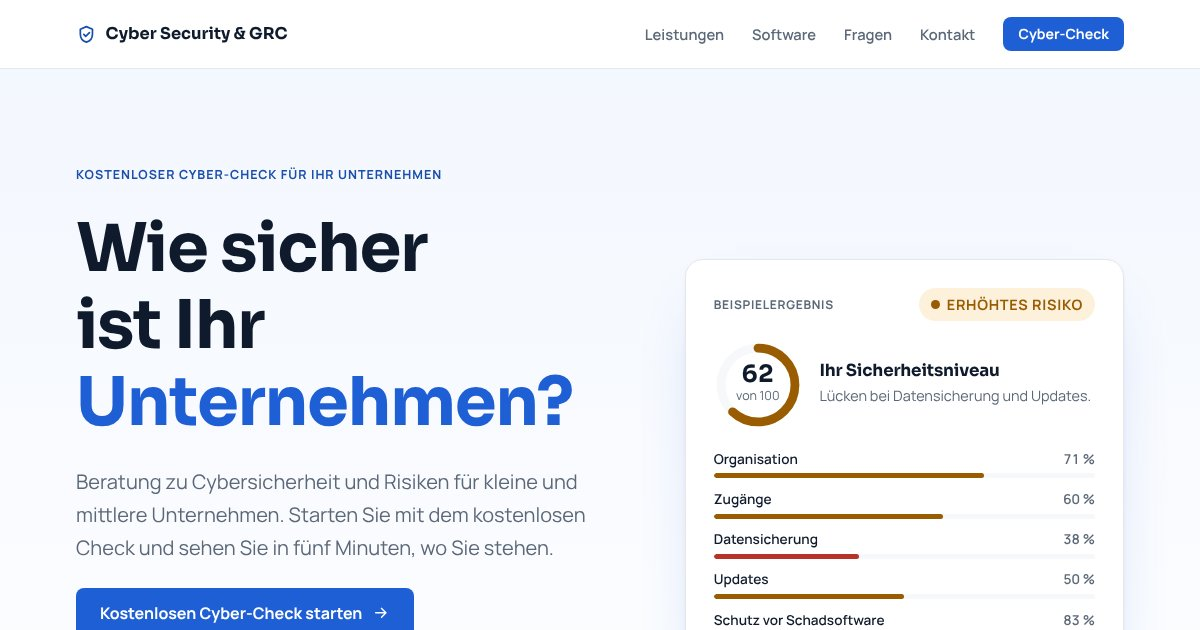
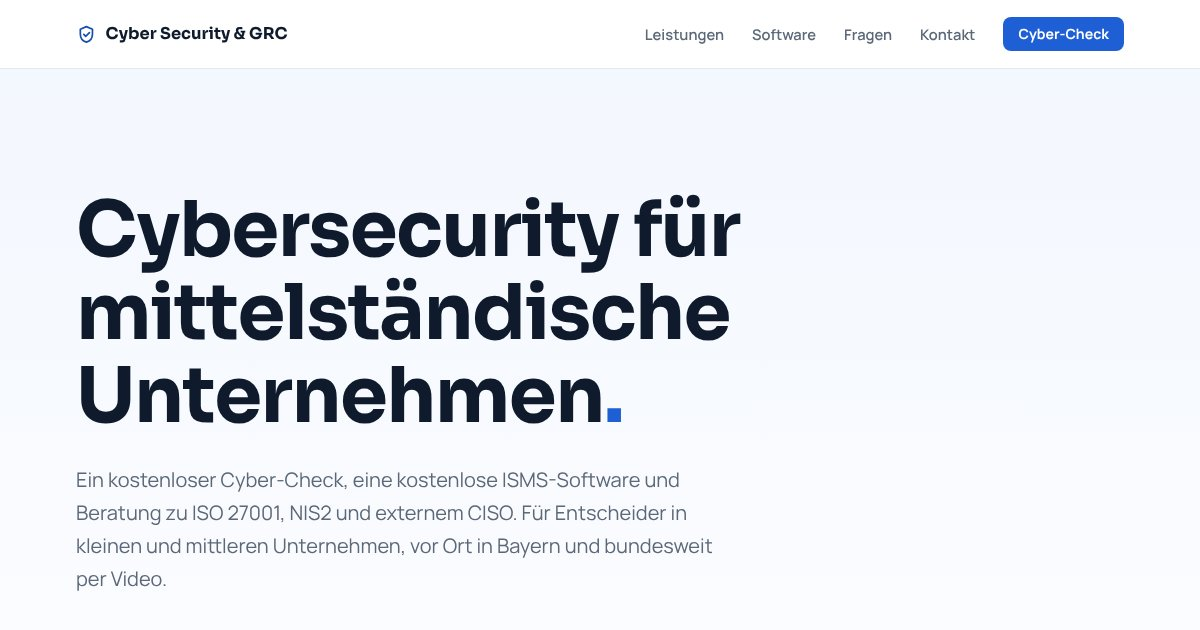
Lead website with slogan and route the question into the check
Statement headline for the value proposition, the question as an entry
card that jumps to the check, no sample result, no DIN SPEC note under
the check, and a note in the result that it stays in the browser.

Claude-Session: https://claude.ai/code/session_01H7iuLRaVLhSwwYKUt7K3jU

diff --git a/index.html b/index.html
@@ -3,8 +3,8 @@
 <head>
   <meta charset="utf-8">
   <meta name="viewport" content="width=device-width, initial-scale=1, viewport-fit=cover">
-  <title>Kostenloser Cyber-Check für Ihr Unternehmen | Cybersicherheit und Risikoberatung</title>
-  <meta name="description" content="Wie sicher ist Ihr Unternehmen? Kostenloser Cyber-Check in 5 Minuten. Sicherheitsanalysen, ISO 27001, Awareness-Schulungen und externer CISO für KMU in Bayern und bundesweit, dazu eine kostenlose ISMS-Software.">
+  <title>Cybersecurity für mittelständische Unternehmen | Kostenloser Cyber-Check</title>
+  <meta name="description" content="Cybersecurity für mittelständische Unternehmen: kostenloser Cyber-Check in 5 Minuten, kostenlose ISMS-Software und Beratung zu ISO 27001, NIS2 und externem CISO. Vor Ort in Bayern, bundesweit per Video.">
   <meta name="robots" content="index, follow, max-image-preview:large">
   <meta name="referrer" content="strict-origin-when-cross-origin">
   <meta name="theme-color" content="#081326">
@@ -24,8 +24,8 @@
   <meta property="og:type" content="website">
   <meta property="og:locale" content="de_DE">
   <meta property="og:site_name" content="Cyber Security &amp; GRC">
-  <meta property="og:title" content="Wie sicher ist Ihr Unternehmen? Kostenloser Cyber-Check">
-  <meta property="og:description" content="27 Fragen, 5 Minuten, sofort ein klares Ergebnis. Dazu Beratung zu Cybersicherheit und Risiken und eine kostenlose ISMS-Software.">
+  <meta property="og:title" content="Cybersecurity für mittelständische Unternehmen">
+  <meta property="og:description" content="Kostenloser Cyber-Check, kostenlose ISMS-Software und Beratung zu ISO 27001, NIS2 und externem CISO.">
   <meta property="og:url" content="https://www.ihre-domain.de/">
   <meta property="og:image" content="https://www.ihre-domain.de/assets/img/og-image.jpg">
   <meta property="og:image:width" content="1200">
@@ -238,50 +238,28 @@
 <main id="inhalt">
   <section class="hero" id="start" aria-labelledby="hero-title">
     <div class="wrap">
-      <div class="hero-copy">
-        <span class="eyebrow">Kostenloser Cyber-Check für Ihr Unternehmen</span>
-        <h1 id="hero-title">Wie sicher ist Ihr <em>Unternehmen?</em></h1>
-        <p class="hero-sub">Beratung zu Cybersicherheit und Risiken für kleine und mittlere Unternehmen. Starten Sie mit dem kostenlosen Check und sehen Sie in fünf Minuten, wo Sie stehen.</p>
-        <div class="actions">
-          <a class="btn" href="#check">Kostenlosen Cyber-Check starten <svg aria-hidden="true"><use href="#i-arrow"/></svg></a>
-          <a class="btn btn-line" href="#software">ISMS-Software kostenlos nutzen</a>
-        </div>
-        <ul class="ticks">
-          <li><svg aria-hidden="true"><use href="#i-tick"/></svg>5 Minuten</li>
-          <li><svg aria-hidden="true"><use href="#i-tick"/></svg>Kostenlos und anonym</li>
-          <li><svg aria-hidden="true"><use href="#i-tick"/></svg>Ergebnis sofort</li>
-        </ul>
-        <p class="creds"><b>ISO/IEC 27001 Implementer</b> · <b>ISO/IEC 27005 Risk Manager</b> · Jahrelange Erfahrung in Bank, Behörde und Industrie</p>
-      </div>
-      <!-- Statisches Beispiel, damit Besucher sehen, was der Check liefert -->
-      <figure class="sample" aria-label="Beispiel für ein Ergebnis des Cyber-Checks">
-        <div class="sample-top"><span>Beispielergebnis</span><span class="status lvl-warn">Erhöhtes Risiko</span></div>
-        <div class="sample-score">
-          <div class="ring"><svg viewBox="0 0 100 100" aria-hidden="true"><circle class="track" cx="50" cy="50" r="42" fill="none" stroke-width="10"/><circle class="lvl-warn" cx="50" cy="50" r="42" fill="none" stroke-width="10" stroke-linecap="round" stroke-dasharray="163.6 263.9"/></svg><div><b>62</b><small>von 100</small></div></div>
-          <div><h2>Ihr Sicherheitsniveau</h2><p>Lücken bei Datensicherung und Updates.</p></div>
-        </div>
-        <ul class="sample-bars">
-          <li><span>Organisation</span><span>71 %</span><div class="bar"><i class="lvl-warn w-71"></i></div></li>
-          <li><span>Zugänge</span><span>60 %</span><div class="bar"><i class="lvl-warn w-60"></i></div></li>
-          <li><span>Datensicherung</span><span>38 %</span><div class="bar"><i class="lvl-crit w-38"></i></div></li>
-          <li><span>Updates</span><span>50 %</span><div class="bar"><i class="lvl-warn w-50"></i></div></li>
-          <li><span>Schutz vor Schadsoftware</span><span>83 %</span><div class="bar"><i class="lvl-ok w-83"></i></div></li>
-        </ul>
-        <p class="sample-foot"><b>Zuerst angehen:</b> eine Sicherung getrennt vom Netz aufbewahren</p>
-      </figure>
+      <h1 id="hero-title">Cybersecurity für mittelständische Unternehmen<span class="dot">.</span></h1>
+      <p class="hero-sub">Ein kostenloser Cyber-Check, eine kostenlose ISMS-Software und Beratung zu ISO 27001, NIS2 und externem CISO. Für Entscheider in kleinen und mittleren Unternehmen, vor Ort in Bayern und bundesweit per Video.</p>
+      <!-- Die Frage steht direkt am Einstieg in den Check: Wer neugierig wird, ist einen Klick von der Antwort entfernt. -->
+      <a class="hero-question" href="#check">
+        <span class="hq-text"><strong>Wie sicher ist Ihr Unternehmen?</strong><span>27 Fragen · 5 Minuten · kostenlos und anonym</span></span>
+        <span class="hq-go">Cyber-Check starten <svg aria-hidden="true"><use href="#i-arrow"/></svg></span>
+      </a>
+      <a class="hero-link" href="#software">Oder die ISMS-Software kostenlos nutzen <svg aria-hidden="true"><use href="#i-arrow"/></svg></a>
+      <p class="creds"><b>ISO/IEC 27001 Implementer</b> · <b>ISO/IEC 27005 Risk Manager</b> · Jahrelange Erfahrung in Bank, Behörde und Industrie</p>
     </div>
   </section>
 
   <section class="section mist" id="check" aria-labelledby="check-title">
     <div class="wrap">
       <div class="head head-c">
-        <h2 id="check-title">Ihr kostenloser Cyber-Check</h2>
-        <p>27 Fragen in sechs Themenfeldern. Ihre Antworten bleiben in Ihrem Browser.</p>
+        <h2 id="check-title">Wie sicher ist Ihr Unternehmen?</h2>
+        <p>27 Fragen in sechs Themenfeldern. Das Ergebnis sehen Sie sofort, nur hier in Ihrem Browser.</p>
       </div>
       <div class="check" id="check-card" aria-live="polite">
         <noscript><p>Der Check benötigt JavaScript. Schreiben Sie mir gern direkt, dann gehen wir die Fragen gemeinsam durch.</p></noscript>
       </div>
-      <p class="fine">Erste Selbsteinschätzung, angelehnt an die DIN SPEC 27076 für kleine Unternehmen. Sie ersetzt keine Prüfung vor Ort.</p>
+      <p class="fine">Eine erste Selbsteinschätzung. Sie ersetzt keine Prüfung vor Ort.</p>
     </div>
   </section>
 

diff --git a/assets/css/styles.css b/assets/css/styles.css
@@ -95,35 +95,25 @@ img { max-width: 100%; height: auto; }
 @media (max-width: 860px) { .nav a:not(.btn) { display: none; } }
 @media (max-width: 520px) { .brand span { display: none; } }
 
-/* --- Hero: links Aussage, rechts ein Beispielergebnis des Checks -------- */
+/* --- Hero: Aussage als Überschrift, die Frage führt in den Check -------- */
 .hero { background: linear-gradient(180deg, var(--hero-tint) 0%, var(--paper) 100%); }
-.hero .wrap { display: grid; grid-template-columns: minmax(0, 1.1fr) minmax(0, .9fr); gap: clamp(2.5rem, 6vw, 5rem); align-items: center; padding-block: clamp(3.5rem, 8vw, 6.5rem) clamp(3rem, 7vw, 5rem); }
-@media (max-width: 900px) { .hero .wrap { grid-template-columns: 1fr; } }
-.hero-copy { display: grid; gap: 1.5rem; justify-items: start; min-width: 0; }
-.hero h1 { font-size: clamp(2.5rem, 1.6rem + 3.8vw, 4.2rem); font-weight: 700; max-width: 13ch; }
-.hero h1 em { font-style: normal; color: var(--accent); }
-.hero-sub { font-size: clamp(1.08rem, 1rem + .4vw, 1.25rem); color: var(--muted); max-width: 34rem; }
-.ticks { display: flex; flex-wrap: wrap; gap: .5rem 1.6rem; list-style: none; padding: 0; margin: 0; color: var(--muted); font-size: .95rem; font-weight: 500; }
-.ticks li { display: flex; align-items: center; gap: .45rem; }
-.ticks svg { width: 1.05rem; height: 1.05rem; color: var(--accent); flex: none; }
-.creds { font-size: .9rem; color: var(--muted); border-top: 1px solid var(--line); padding-top: 1.2rem; margin-top: .5rem; width: 100%; }
+.hero .wrap { display: grid; gap: 1.6rem; justify-items: start; padding-block: clamp(4rem, 10vw, 8rem) clamp(3.5rem, 8vw, 6rem); }
+.hero h1 { font-size: clamp(2.5rem, 1.5rem + 4.4vw, 4.8rem); font-weight: 700; max-width: 16ch; line-height: 1.08; }
+.hero h1 .dot { color: var(--accent); }
+.hero-sub { font-size: clamp(1.08rem, 1rem + .4vw, 1.25rem); color: var(--muted); max-width: 40rem; }
+.hero-question { display: flex; align-items: center; justify-content: space-between; gap: 1rem 2rem; flex-wrap: wrap; width: 100%; max-width: 44rem; margin-top: .6rem; padding: 1.15rem 1.15rem 1.15rem 1.5rem; border-radius: 14px; background: var(--paper); border: 1px solid var(--line); box-shadow: 0 1px 2px rgba(15,27,45,.04), 0 18px 40px -26px rgba(31,95,214,.45); text-decoration: none; color: var(--ink); transition: border-color .15s, box-shadow .15s, transform .15s; }
+.hero-question:hover { border-color: var(--accent); transform: translateY(-1px); }
+.hq-text { display: grid; gap: .15rem; min-width: 0; }
+.hq-text strong { font-family: var(--f-head); font-size: clamp(1.2rem, 1.05rem + .6vw, 1.5rem); font-weight: 700; letter-spacing: -0.015em; }
+.hq-text span { color: var(--muted); font-size: .92rem; }
+.hq-go { display: inline-flex; align-items: center; gap: .55rem; background: var(--accent); color: var(--on-accent); font-weight: 700; padding: .9rem 1.3rem; border-radius: 9px; white-space: nowrap; }
+.hero-question:hover .hq-go { background: var(--accent-hover); }
+.hq-go svg, .hero-link svg { width: 1.1em; height: 1.1em; }
+@media (max-width: 560px) { .hq-go { width: 100%; justify-content: center; } }
+.hero-link { display: inline-flex; align-items: center; gap: .45rem; color: var(--accent-strong); font-weight: 700; text-decoration: none; font-size: .98rem; }
+.hero-link:hover { text-decoration: underline; }
+.creds { font-size: .9rem; color: var(--muted); border-top: 1px solid var(--line); padding-top: 1.2rem; margin-top: 1rem; width: 100%; max-width: 44rem; }
 .creds b { color: var(--ink); font-weight: 700; }
-
-/* Beispielergebnis: statisch, zeigt was der Check liefert */
-.sample { margin: 0; background: var(--paper); border: 1px solid var(--line); border-radius: 18px; box-shadow: 0 2px 4px rgba(15,27,45,.04), 0 30px 60px -30px rgba(31,95,214,.35); padding: clamp(1.25rem, 3vw, 1.75rem); display: grid; gap: 1.2rem; min-width: 0; }
-.sample-top { display: flex; justify-content: space-between; align-items: center; gap: 1rem; font-size: .75rem; font-weight: 700; letter-spacing: .06em; text-transform: uppercase; color: var(--muted); }
-.sample-score { display: grid; grid-template-columns: auto 1fr; gap: 1.1rem; align-items: center; }
-.sample-score .ring { width: 5.5rem; height: 5.5rem; }
-.sample-score .ring b { font-size: 1.5rem; }
-.sample-score h2 { font-size: 1.05rem; font-weight: 700; letter-spacing: -0.01em; }
-.sample-score p { color: var(--muted); font-size: .9rem; margin-top: .2rem; }
-.sample-bars { list-style: none; margin: 0; padding: 0; display: grid; gap: .6rem; }
-.sample-bars li { display: grid; grid-template-columns: minmax(0, 1fr) 2.6rem; gap: .2rem .8rem; font-size: .85rem; font-weight: 600; }
-.sample-bars li span:nth-child(2) { text-align: right; color: var(--muted); font-variant-numeric: tabular-nums; }
-.sample-bars .bar { grid-column: 1 / -1; height: 5px; }
-.sample-foot { font-size: .86rem; background: var(--mist); border-radius: 10px; padding: .65rem .85rem; }
-.sample-foot b { color: var(--accent-strong); }
-.sample-bars .bar > i.w-38 { width: 38%; } .sample-bars .bar > i.w-50 { width: 50%; } .sample-bars .bar > i.w-60 { width: 60%; } .sample-bars .bar > i.w-70 { width: 70%; } .sample-bars .bar > i.w-71 { width: 71%; } .sample-bars .bar > i.w-83 { width: 83%; }
 
 /* --- Abschnitte --------------------------------------------------------- */
 .section { padding-block: clamp(4rem, 9vw, 7rem); }
@@ -191,6 +181,7 @@ img { max-width: 100%; height: auto; }
 .gaps { list-style: none; margin: 0; padding: 0; display: grid; gap: .5rem; }
 .gaps li { display: flex; gap: .7rem; align-items: baseline; padding: .7rem .9rem; border-radius: 10px; background: var(--mist); font-size: .95rem; }
 .gaps li b { font-size: .72rem; letter-spacing: .04em; color: var(--navy-700); white-space: nowrap; }
+.result-note { font-size: .88rem; color: var(--muted); background: var(--mist); border-radius: 10px; padding: .7rem .9rem; }
 .restart { justify-self: start; background: none; border: 0; color: var(--muted); font: 600 .9rem var(--f-body); cursor: pointer; text-decoration: underline; padding: 0; }
 
 /* --- Formulare ---------------------------------------------------------- */

diff --git a/assets/js/check.js b/assets/js/check.js
@@ -92,6 +92,7 @@ export function initCheck(card) {
             h("span", { class: `status lvl-${r.level}`, text: level.label }),
             h("h3", { text: "Ihr Sicherheitsniveau" }),
             h("p", { text: level.text + (r.topOpen ? ` Offene TOP-Anforderungen: ${r.topOpen}.` : "") }))),
+        h("p", { class: "result-note", text: "Dieses Ergebnis sehen nur Sie. Es wird in diesem Browser-Tab angezeigt, nicht gespeichert und nicht übertragen." }),
         h("div", { class: "fields" }, fieldRows),
         gaps.length > 0 && h("div", {}, h("h3", { class: "res-sub", text: "Zuerst angehen" }), h("ul", { class: "gaps" }, gaps)),
         lead,
